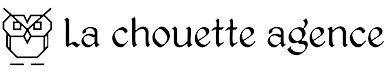
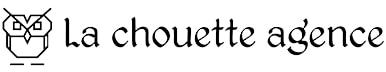
redimension d'image

diff --git a/index.html b/index.html
@@ -64,7 +64,7 @@
             <div class="container bloc-lg">
                 <div class="row tight-width-whitespace">
                     <div class="col-sm-12">
-                        <img src="img/logo.jpg" class="center-block image-resize-mode" alt="logo la chouette agence lyon" />
+                        <img src="img/logo.png" class="center-block image-resize-mode" alt="logo entreprise">
                         <h1 class="text-center hero-bloc-text tc-white ">
                             La Chouette Agence, Entreprise de Web Design basée à Lyon.
                         </h1>
